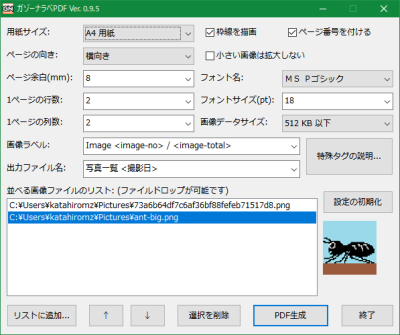
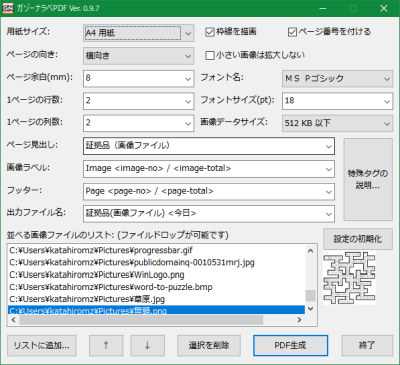
header and footer

diff --git a/GNPDF.cpp b/GNPDF.cpp
@@ -59,6 +59,8 @@ enum
     IDC_IMAGE_DATA_SIZE = cmb8,
     IDC_IMAGE_TITLE = cmb9,
     IDC_OUTPUT_NAME = cmb10,
+    IDC_HEADER = cmb11,
+    IDC_FOOTER = cmb12,
     IDC_DRAW_BORDER = chx1,
     IDC_PAGE_NUMBERS = chx2,
     IDC_DONT_RESIZE_SMALL = chx3,
@@ -444,23 +446,42 @@ GazoNarabe::GazoNarabe(HINSTANCE hInstance, INT argc, LPTSTR *argv)
     }
 }
 
+// 既定値。
+#define IDC_PAGE_SIZE_DEFAULT doLoadString(IDS_A4)
+#define IDC_PAGE_DIRECTION_DEFAULT doLoadString(IDS_LANDSCAPE)
+#define IDC_MARGIN_DEFAULT TEXT("8")
+#define IDC_ROWS_DEFAULT TEXT("2")
+#define IDC_COLUMNS_DEFAULT TEXT("2")
+#define IDC_FONT_NAME_DEFAULT doLoadString(IDS_FONT_01)
+#define IDC_FONT_SIZE_DEFAULT TEXT("18")
+#define IDC_IMAGE_DATA_SIZE_DEFAULT doLoadString(IDS_512KB)
+#define IDC_IMAGE_TITLE_DEFAULT doLoadString(IDS_PICTITLE_01)
+#define IDC_OUTPUT_NAME_DEFAULT doLoadString(IDS_OUTPUT_04)
+#define IDC_DRAW_BORDER_DEFAULT doLoadString(IDS_YES)
+#define IDC_PAGE_NUMBERS_DEFAULT doLoadString(IDS_YES)
+#define IDC_DONT_RESIZE_SMALL_DEFAULT doLoadString(IDS_NO)
+#define IDC_HEADER_DEFAULT doLoadString(IDS_NOSPEC)
+#define IDC_FOOTER_DEFAULT doLoadString(IDS_FOOTER_01)
+
 // データをリセットする。
 void GazoNarabe::Reset()
 {
 #define SETTING(id) m_settings[TEXT(#id)]
-    SETTING(IDC_PAGE_SIZE) = doLoadString(IDS_A4);
-    SETTING(IDC_PAGE_DIRECTION) = doLoadString(IDS_LANDSCAPE);
-    SETTING(IDC_MARGIN) = TEXT("8");
-    SETTING(IDC_ROWS) = TEXT("2");
-    SETTING(IDC_COLUMNS) = TEXT("2");
-    SETTING(IDC_FONT_NAME) = doLoadString(IDS_FONT_01);
-    SETTING(IDC_FONT_SIZE) = TEXT("18");
-    SETTING(IDC_IMAGE_DATA_SIZE) = doLoadString(IDS_512KB);
-    SETTING(IDC_IMAGE_TITLE) = doLoadString(IDS_PICTITLE_01);
-    SETTING(IDC_OUTPUT_NAME) = doLoadString(IDS_OUTPUT_04);
-    SETTING(IDC_DRAW_BORDER) = doLoadString(IDS_YES);
-    SETTING(IDC_PAGE_NUMBERS) = doLoadString(IDS_YES);
-    SETTING(IDC_DONT_RESIZE_SMALL) = doLoadString(IDS_NO);
+    SETTING(IDC_PAGE_SIZE) = IDC_PAGE_SIZE_DEFAULT;
+    SETTING(IDC_PAGE_DIRECTION) = IDC_PAGE_DIRECTION_DEFAULT;
+    SETTING(IDC_MARGIN) = IDC_MARGIN_DEFAULT;
+    SETTING(IDC_ROWS) = IDC_ROWS_DEFAULT;
+    SETTING(IDC_COLUMNS) = IDC_COLUMNS_DEFAULT;
+    SETTING(IDC_FONT_NAME) = IDC_FONT_NAME_DEFAULT;
+    SETTING(IDC_FONT_SIZE) = IDC_FONT_SIZE_DEFAULT;
+    SETTING(IDC_IMAGE_DATA_SIZE) = IDC_IMAGE_DATA_SIZE_DEFAULT;
+    SETTING(IDC_IMAGE_TITLE) = IDC_IMAGE_TITLE_DEFAULT;
+    SETTING(IDC_OUTPUT_NAME) = IDC_OUTPUT_NAME_DEFAULT;
+    SETTING(IDC_DRAW_BORDER) = IDC_DRAW_BORDER_DEFAULT;
+    SETTING(IDC_PAGE_NUMBERS) = IDC_PAGE_NUMBERS_DEFAULT;
+    SETTING(IDC_DONT_RESIZE_SMALL) = IDC_DONT_RESIZE_SMALL_DEFAULT;
+    SETTING(IDC_HEADER) = IDC_HEADER_DEFAULT;
+    SETTING(IDC_FOOTER) = IDC_FOOTER_DEFAULT;
 
     m_list.clear();
 }
@@ -548,6 +569,19 @@ void GazoNarabe::InitDialog(HWND hwnd)
     SendDlgItemMessage(hwnd, IDC_OUTPUT_NAME, CB_ADDSTRING, 0, (LPARAM)doLoadString(IDS_OUTPUT_04));
     SendDlgItemMessage(hwnd, IDC_OUTPUT_NAME, CB_ADDSTRING, 0, (LPARAM)doLoadString(IDS_OUTPUT_05));
     SendDlgItemMessage(hwnd, IDC_OUTPUT_NAME, CB_ADDSTRING, 0, (LPARAM)doLoadString(IDS_OUTPUT_06));
+    SendDlgItemMessage(hwnd, IDC_OUTPUT_NAME, CB_ADDSTRING, 0, (LPARAM)doLoadString(IDS_OUTPUT_07));
+
+    // IDC_HEADER: ヘッダー。
+    SendDlgItemMessage(hwnd, IDC_HEADER, CB_ADDSTRING, 0, (LPARAM)doLoadString(IDS_NOSPEC));
+    SendDlgItemMessage(hwnd, IDC_HEADER, CB_ADDSTRING, 0, (LPARAM)doLoadString(IDS_HEADER_01));
+    SendDlgItemMessage(hwnd, IDC_HEADER, CB_ADDSTRING, 0, (LPARAM)doLoadString(IDS_HEADER_02));
+    SendDlgItemMessage(hwnd, IDC_HEADER, CB_ADDSTRING, 0, (LPARAM)doLoadString(IDS_HEADER_03));
+
+    // IDC_FOOTER: フッター。
+    SendDlgItemMessage(hwnd, IDC_FOOTER, CB_ADDSTRING, 0, (LPARAM)doLoadString(IDS_NOSPEC));
+    SendDlgItemMessage(hwnd, IDC_FOOTER, CB_ADDSTRING, 0, (LPARAM)doLoadString(IDS_FOOTER_01));
+    SendDlgItemMessage(hwnd, IDC_FOOTER, CB_ADDSTRING, 0, (LPARAM)doLoadString(IDS_FOOTER_02));
+    SendDlgItemMessage(hwnd, IDC_FOOTER, CB_ADDSTRING, 0, (LPARAM)doLoadString(IDS_FOOTER_03));
 }
 
 // ダイアログからデータへ。
@@ -571,6 +605,8 @@ BOOL GazoNarabe::DataFromDialog(HWND hwnd, BOOL bList)
     GET_COMBO_DATA(IDC_IMAGE_DATA_SIZE);
     GET_COMBO_DATA(IDC_IMAGE_TITLE);
     GET_COMBO_DATA(IDC_OUTPUT_NAME);
+    GET_COMBO_DATA(IDC_HEADER);
+    GET_COMBO_DATA(IDC_FOOTER);
 #undef GET_COMBO_DATA
 
     // チェックボックスからデータを取得する。
@@ -594,7 +630,7 @@ BOOL GazoNarabe::DataFromDialog(HWND hwnd, BOOL bList)
         if (*endptr != 0 || value < 0)
         {
             OnInvalidString(hwnd, IDC_MARGIN, IDS_FIELD_MARGIN, IDS_REASON_POSITIVE_REAL);
-            SETTING(IDC_MARGIN) = TEXT("8");
+            SETTING(IDC_MARGIN) = IDC_MARGIN_DEFAULT;
             return FALSE;
         }
         margin = szText;
@@ -608,7 +644,7 @@ BOOL GazoNarabe::DataFromDialog(HWND hwnd, BOOL bList)
         if (*endptr != 0 || value <= 0)
         {
             OnInvalidString(hwnd, IDC_ROWS, IDS_FIELD_ROWS, IDS_REASON_POSITIVE_INTEGER);
-            SETTING(IDC_ROWS) = TEXT("2");
+            SETTING(IDC_ROWS) = IDC_ROWS_DEFAULT;
             return FALSE;
         }
         rows = szText;
@@ -622,7 +658,7 @@ BOOL GazoNarabe::DataFromDialog(HWND hwnd, BOOL bList)
         if (*endptr != 0 || value <= 0)
         {
             OnInvalidString(hwnd, IDC_COLUMNS, IDS_FIELD_COLUMNS, IDS_REASON_POSITIVE_INTEGER);
-            SETTING(IDC_COLUMNS) = TEXT("2");
+            SETTING(IDC_COLUMNS) = IDC_COLUMNS_DEFAULT;
             return FALSE;
         }
         columns = szText;
@@ -636,7 +672,7 @@ BOOL GazoNarabe::DataFromDialog(HWND hwnd, BOOL bList)
         if (*endptr != 0 || value <= 0)
         {
             OnInvalidString(hwnd, IDC_FONT_SIZE, IDS_FIELD_FONT_SIZE, IDS_REASON_POSITIVE_REAL);
-            SETTING(IDC_FONT_SIZE) = TEXT("18");
+            SETTING(IDC_FONT_SIZE) = IDC_FONT_SIZE_DEFAULT;
             return FALSE;
         }
         font_size = szText;
@@ -647,7 +683,7 @@ BOOL GazoNarabe::DataFromDialog(HWND hwnd, BOOL bList)
         if (output_name.empty())
         {
             OnInvalidString(hwnd, IDC_OUTPUT_NAME, IDS_FIELD_OUTPUT_NAME, IDS_REASON_NON_EMPTY_STRING);
-            SETTING(IDC_OUTPUT_NAME) = doLoadString(IDS_OUTPUT_04);
+            SETTING(IDC_OUTPUT_NAME) = IDC_OUTPUT_NAME_DEFAULT;
             return FALSE;
         }
     }
@@ -693,6 +729,8 @@ BOOL GazoNarabe::DialogFromData(HWND hwnd, BOOL bList)
     SET_COMBO_DATA(IDC_IMAGE_DATA_SIZE);
     SET_COMBO_DATA(IDC_IMAGE_TITLE);
     SET_COMBO_DATA(IDC_OUTPUT_NAME);
+    SET_COMBO_DATA(IDC_HEADER);
+    SET_COMBO_DATA(IDC_FOOTER);
 #undef SET_COMBO_DATA
 
     // チェックボックスへデータを設定する。
@@ -753,6 +791,8 @@ BOOL GazoNarabe::DataFromReg(HWND hwnd)
     GET_REG_DATA(IDC_DRAW_BORDER);
     GET_REG_DATA(IDC_PAGE_NUMBERS);
     GET_REG_DATA(IDC_DONT_RESIZE_SMALL);
+    GET_REG_DATA(IDC_HEADER);
+    GET_REG_DATA(IDC_FOOTER);
 #undef GET_REG_DATA
 
     // 余白。ゼロ以上の実数を指定します。
@@ -763,7 +803,7 @@ BOOL GazoNarabe::DataFromReg(HWND hwnd)
         double value = wcstod(szText, &endptr);
         if (*endptr != 0 || value < 0)
         {
-            SETTING(IDC_MARGIN) = TEXT("8");
+            SETTING(IDC_MARGIN) = IDC_MARGIN_DEFAULT;
         }
         margin = szText;
     }
@@ -775,7 +815,7 @@ BOOL GazoNarabe::DataFromReg(HWND hwnd)
         long value = wcstol(szText, &endptr, 10);
         if (*endptr != 0 || value <= 0)
         {
-            SETTING(IDC_ROWS) = TEXT("2");
+            SETTING(IDC_ROWS) = IDC_ROWS_DEFAULT;
         }
         rows = szText;
     }
@@ -787,7 +827,7 @@ BOOL GazoNarabe::DataFromReg(HWND hwnd)
         long value = wcstol(szText, &endptr, 10);
         if (*endptr != 0 || value <= 0)
         {
-            SETTING(IDC_COLUMNS) = TEXT("2");
+            SETTING(IDC_COLUMNS) = IDC_COLUMNS_DEFAULT;
         }
         columns = szText;
     }
@@ -799,7 +839,7 @@ BOOL GazoNarabe::DataFromReg(HWND hwnd)
         double value = wcstod(szText, &endptr);
         if (*endptr != 0 || value <= 0)
         {
-            SETTING(IDC_FONT_SIZE) = TEXT("18");
+            SETTING(IDC_FONT_SIZE) = IDC_FONT_SIZE_DEFAULT;
         }
         font_size = szText;
     }
@@ -808,7 +848,7 @@ BOOL GazoNarabe::DataFromReg(HWND hwnd)
         auto& output_name = SETTING(IDC_OUTPUT_NAME);
         if (output_name.empty())
         {
-            SETTING(IDC_OUTPUT_NAME) = doLoadString(IDS_OUTPUT_04);
+            SETTING(IDC_OUTPUT_NAME) = IDC_OUTPUT_NAME_DEFAULT;
         }
     }
 
@@ -854,6 +894,8 @@ BOOL GazoNarabe::RegFromData(HWND hwnd)
     SET_REG_DATA(IDC_DRAW_BORDER);
     SET_REG_DATA(IDC_PAGE_NUMBERS);
     SET_REG_DATA(IDC_DONT_RESIZE_SMALL);
+    SET_REG_DATA(IDC_HEADER);
+    SET_REG_DATA(IDC_FOOTER);
 #undef SET_REG_DATA
 
     // レジストリキーを閉じる。
@@ -1467,6 +1509,15 @@ string_t GazoNarabe::JustDoIt(HWND hwnd)
         if (image_title == doLoadString(IDS_NOSPEC))
             image_title.clear();
 
+        // ヘッダー。
+        string_t header = SETTING(IDC_HEADER);
+        if (header == doLoadString(IDS_NOSPEC))
+            header.clear();
+        // フッター。
+        string_t footer = SETTING(IDC_FOOTER);
+        if (footer == doLoadString(IDS_NOSPEC))
+            footer.clear();
+
         // 出力ファイル名。
         string_t output_name = SETTING(IDC_OUTPUT_NAME);
 
@@ -1541,17 +1592,32 @@ string_t GazoNarabe::JustDoIt(HWND hwnd)
                     HPDF_Page_EndText(page);
                 }
 #endif
+                // ヘッダー（ページ見出し）を描画する。
+                if (header.size())
+                {
+                    string_t text = header;
+                    substitute_tags(text, m_list[iItem], iItem, cItems, iPage, cPages);
+#ifdef UTF8_SUPPORT
+                    auto header_text_a = ansi_from_wide(CP_UTF8, text.c_str());
+#else
+                    auto header_text_a = ansi_from_wide(CP932, text.c_str());
+#endif
+                    hpdf_draw_text(page, font, footer_height, header_text_a,
+                                   content_x, content_y + content_height - footer_height,
+                                   content_width, footer_height);
+                    // ヘッダーの分だけページ内容のサイズを縮小する。
+                    content_height -= footer_height;
+                }
 
                 // フッター（ページ番号）を描画する。
-                if (page_numbers)
+                if (page_numbers || footer.size())
                 {
-                    TCHAR footer_text[128];
-                    StringCchPrintf(footer_text, _countof(footer_text),
-                                    doLoadString(IDS_PAGENUMBER), (iPage + 1), cPages);
+                    string_t text = footer;
+                    substitute_tags(text, m_list[iItem], iItem, cItems, iPage, cPages);
 #ifdef UTF8_SUPPORT
-                    auto footer_text_a = ansi_from_wide(CP_UTF8, footer_text);
+                    auto footer_text_a = ansi_from_wide(CP_UTF8, text.c_str());
 #else
-                    auto footer_text_a = ansi_from_wide(CP932, footer_text);
+                    auto footer_text_a = ansi_from_wide(CP932, text.c_str());
 #endif
                     hpdf_draw_text(page, font, footer_height, footer_text_a,
                                    content_x, content_y,
@@ -2143,6 +2209,8 @@ void OnTags(HWND hwnd)
 // コマンド。
 void OnCommand(HWND hwnd, int id, HWND hwndCtl, UINT codeNotify)
 {
+    static BOOL s_bUpdating = FALSE;
+
     switch (id)
     {
     case IDC_GENERATE: // 「PDF生成」ボタン。
@@ -2188,6 +2256,8 @@ void OnCommand(HWND hwnd, int id, HWND hwndCtl, UINT codeNotify)
     case stc8:
     case stc9:
     case stc10:
+    case stc11:
+    case stc12:
         // コンボボックスの前のラベルをクリックしたら、対応するコンボボックスにフォーカスを当てる。
         SetFocus(GetDlgItem(hwnd, cmb1 + (id - stc1)));
         break;
@@ -2203,6 +2273,51 @@ void OnCommand(HWND hwnd, int id, HWND hwndCtl, UINT codeNotify)
             break;
         }
         break;
+    case IDC_PAGE_NUMBERS: // 「ページ番号を付ける」チェックボックス。
+        if (s_bUpdating)
+            break;
+        if (codeNotify == BN_CLICKED)
+        {
+            if (::IsDlgButtonChecked(hwnd, IDC_PAGE_NUMBERS) == BST_CHECKED)
+            {
+                // フッターを設定。
+                s_bUpdating = TRUE;
+                setComboText(hwnd, IDC_FOOTER, IDC_FOOTER_DEFAULT);
+                s_bUpdating = FALSE;
+            }
+            else
+            {
+                // フッターを解除。
+                s_bUpdating = TRUE;
+                setComboText(hwnd, IDC_FOOTER, doLoadString(IDS_NOSPEC));
+                s_bUpdating = FALSE;
+            }
+        }
+        break;
+    case IDC_FOOTER: // フッター。
+        if (s_bUpdating)
+            break;
+        switch (codeNotify)
+        {
+        case CBN_EDITCHANGE:
+        case CBN_SELENDOK:
+            {
+                TCHAR szText[512];
+                getComboText(hwnd, IDC_FOOTER, szText, _countof(szText));
+
+                s_bUpdating = TRUE;
+                if (lstrcmpi(szText, doLoadString(IDS_NOSPEC)) == 0)
+                {
+                    CheckDlgButton(hwnd, IDC_PAGE_NUMBERS, BST_UNCHECKED);
+                }
+                else
+                {
+                    CheckDlgButton(hwnd, IDC_PAGE_NUMBERS, BST_CHECKED);
+                }
+                s_bUpdating = FALSE;
+            }
+            break;
+        }
     }
 }
 

diff --git a/resource.h b/resource.h
@@ -88,6 +88,13 @@
 #define IDS_REASON_POSITIVE_REAL            192
 #define IDS_REASON_NON_EMPTY_STRING         193
 #define IDS_SUSIE_IMAGES                    194
+#define IDS_HEADER_01                       195
+#define IDS_HEADER_02                       196
+#define IDS_HEADER_03                       197
+#define IDS_FOOTER_01                       198
+#define IDS_FOOTER_02                       199
+#define IDS_FOOTER_03                       200
+#define IDS_OUTPUT_07                       201
 
 #ifdef APSTUDIO_INVOKED
     #ifndef APSTUDIO_READONLY_SYMBOLS
